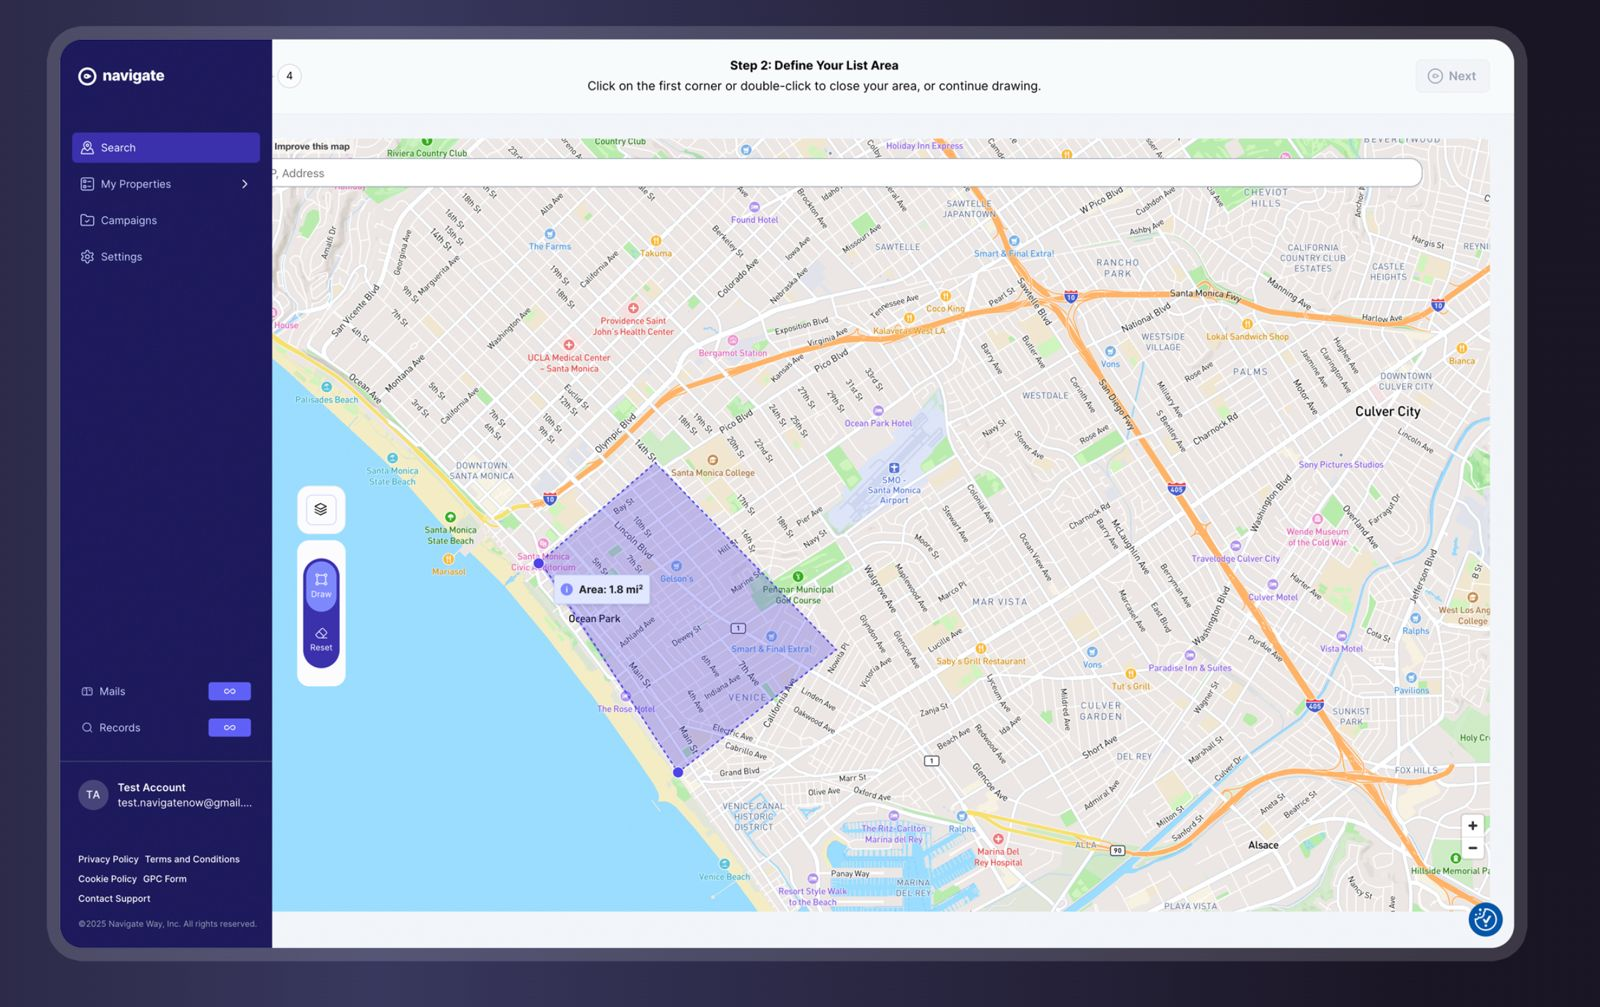
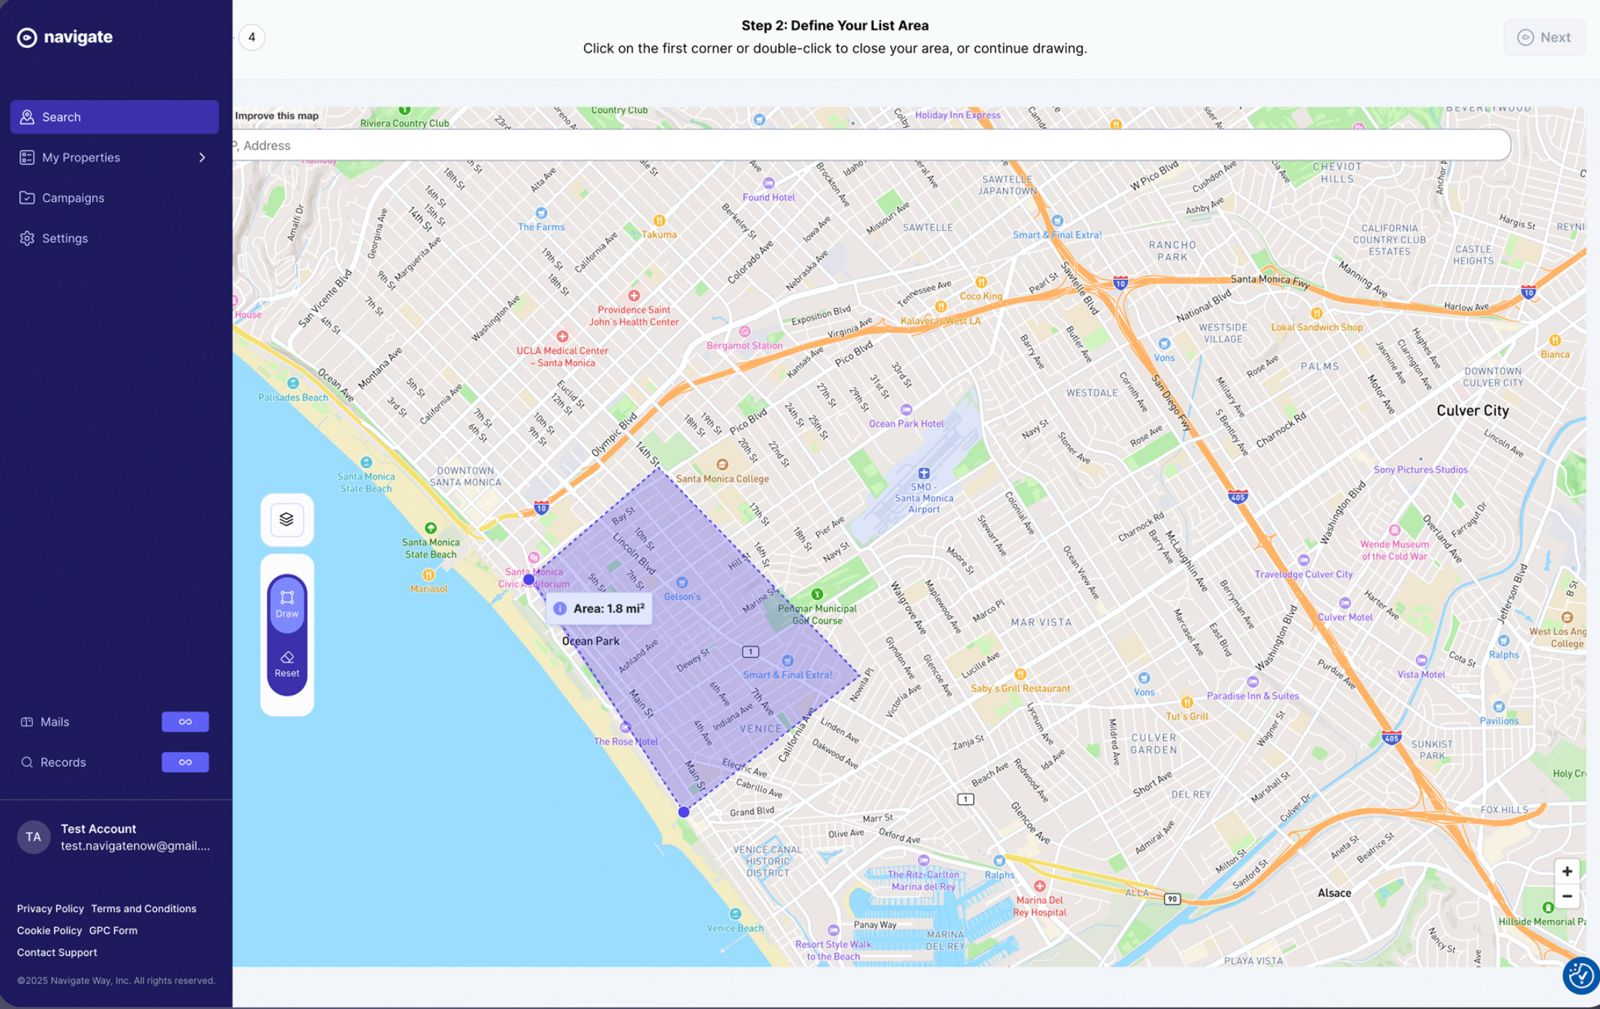
Update Navigate interface image and fix headline to single line

diff --git a/app/data-intelligence/page.tsx b/app/data-intelligence/page.tsx
@@ -262,8 +262,8 @@ export default function DataIntelligencePage() {
             <span style={{ width: '2px', height: '1.25rem', background: '#B8924A' }}></span>
             Approach
           </div>
-          <h2 style={{ fontFamily: "'Cormorant Garamond', Georgia, serif", fontSize: 'clamp(2.25rem, 3.5vw, 3.25rem)', fontWeight: 300, lineHeight: 1.15, marginBottom: '3.5rem', maxWidth: '20ch' }}>
-            From search to<br/><em style={{ fontStyle: 'italic', color: '#B8924A' }}>outreach in minutes.</em>
+          <h2 style={{ fontFamily: "'Cormorant Garamond', Georgia, serif", fontSize: 'clamp(2.25rem, 3.5vw, 3.25rem)', fontWeight: 300, lineHeight: 1.15, marginBottom: '3.5rem' }}>
+            From search to <em style={{ fontStyle: 'italic', color: '#B8924A' }}>outreach in minutes.</em>
           </h2>
           <div style={{ display: 'grid', gridTemplateColumns: 'repeat(4, 1fr)', gap: '0', borderTop: '1px solid #D4CFC6' }}>
             {[